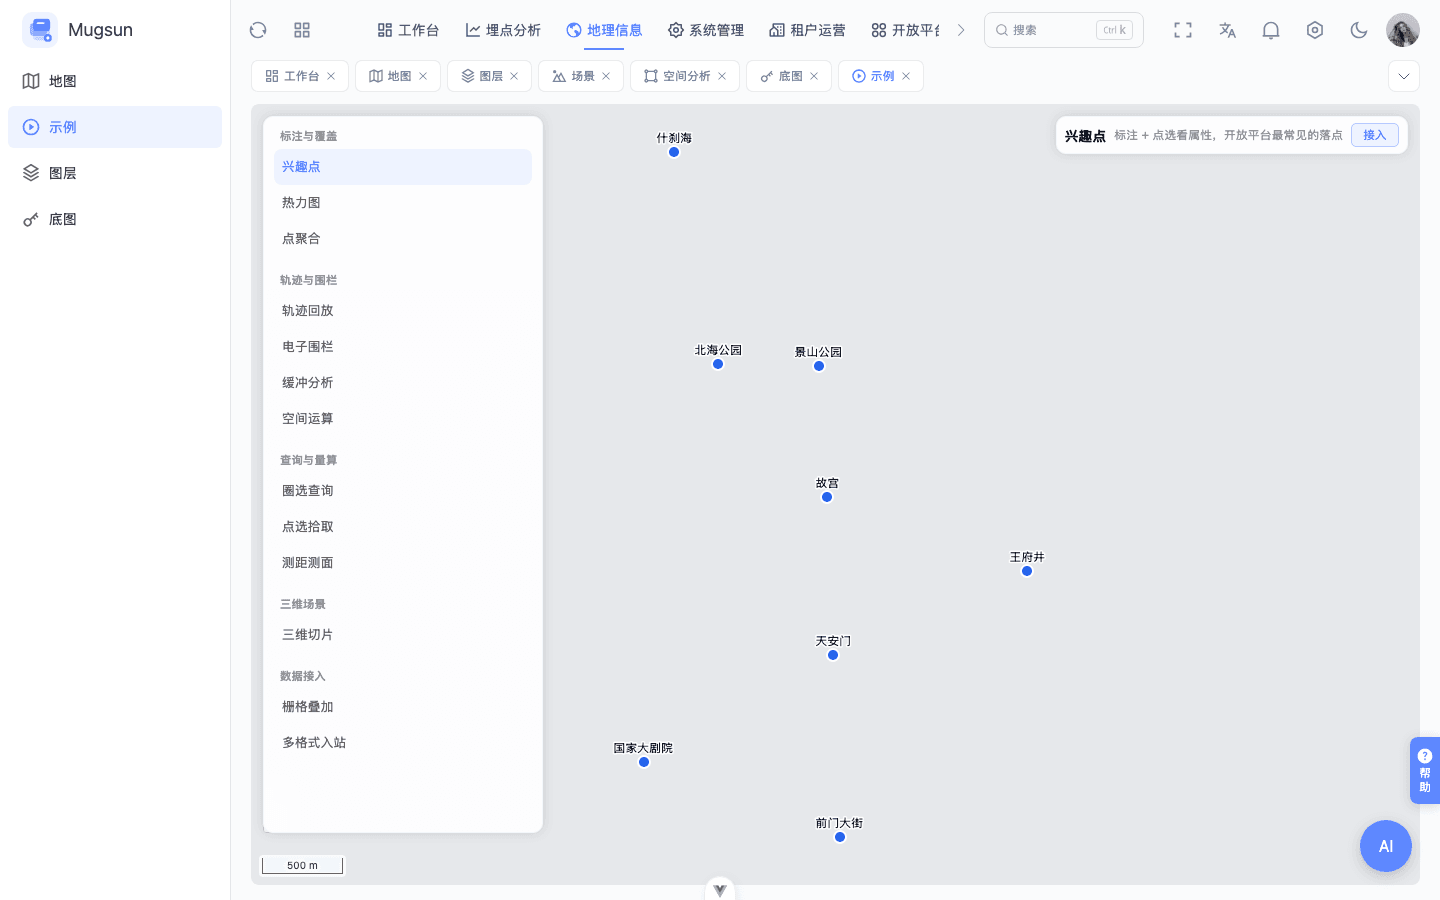
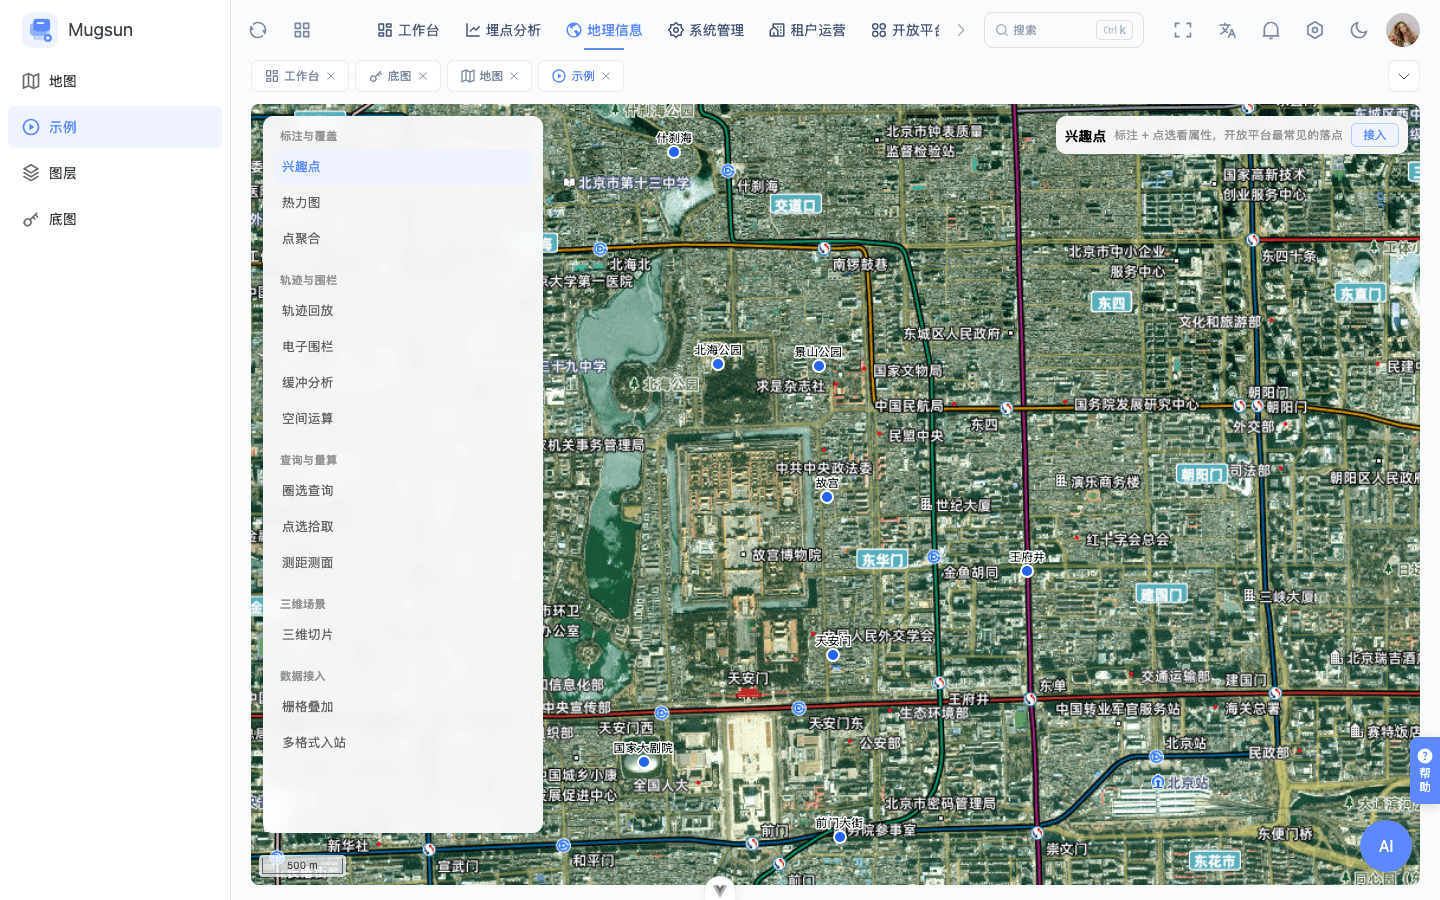
docs(pc): GIS 截图改用天地图底图，补工作台埋点热力，移除灰底/空状态图

diff --git a/en/pc/gis.md b/en/pc/gis.md
@@ -1,22 +1,30 @@
 # GIS & maps
 
-With `VITE_ENABLE_GIS` on, the admin registers the **GIS** menu (frontend `modules/gis`, backend `mugsun-boot-gis`). All screenshots below come from a local run of mugsun-boot + mugsun-pc (1440×900) with **no basemap key configured**, so map areas show a grey canvas plus vector features only. Add a key for Tianditu / AMap / Baidu / Google to get basemap tiles. The UI is shown in Chinese.
+With `VITE_ENABLE_GIS` on, the admin registers the **GIS** menu (frontend `modules/gis`, backend `mugsun-boot-gis`). All screenshots below come from a local run of mugsun-boot + mugsun-pc (1440×900). The UI is shown in Chinese.
+
+::: info Basemap source & copyright
+The basemap in these screenshots is **Tianditu** (China's National Platform for Common Geospatial Information Services) imagery + label tiles, proxied same-origin by boot; copyright belongs to Tianditu. The admin map currently shows no attribution / map-review-number control — when publishing, label the source and review number as required by Tianditu's terms. You need to apply for your own Tianditu key.
+:::
 
 ::: tip Demo data
-The two analytics geo screenshots use demo events seeded into the local dev database (~150 events across Beijing, Shanghai, Guangzhou and other cities), for illustration only.
+The analytics heatmap and region screenshots use demo events seeded into the local dev database (~150 geo-tagged events across Beijing, Shanghai, Guangzhou and other cities), for illustration only.
 :::
 
 ## Basemap providers `/gis/provider`
 
-Keys are stored server-side only; tiles are proxied through an authenticated same-origin API and keys are never echoed back to the page.
+Keys are stored server-side only (SM4-encrypted); tiles are proxied through an authenticated same-origin API. A configured key is never echoed back — the input only says "leave empty to keep".
 
-![Basemap providers](/screenshots/gis/gis-provider.png)
+![Basemap providers (Tianditu configured)](/screenshots/gis/gis-provider.png)
 
 ## Map workspace `/gis/workspace`
 
-Available by default. Without a usable basemap it shows an empty state with a shortcut to the provider settings. Set `gis.module.enabled` to hide the whole module.
+Draw points/lines/polygons, search places / POIs, switch 2D/3D and basemap styles (vector / imagery / labels). Set `gis.module.enabled` to hide the whole module.
 
-![Map workspace (no basemap)](/screenshots/gis/gis-workspace.png)
+![Map workspace](/screenshots/gis/gis-workspace.png)
+
+**More → Analytics heatmap** overlays precise analytics coordinates as a heatmap layer; adjust opacity, zoom to, or remove it in the **Layers** panel.
+
+![Workspace with analytics heatmap](/screenshots/gis/gis-workspace-track-heat.png)
 
 ## Examples `/gis/lab`
 
@@ -26,27 +34,15 @@ Runnable examples grouped by scenario: markers & overlays, tracks & fences, quer
 
 ![Example: heatmap](/screenshots/gis/gis-lab-heatmap.png)
 
-## Layers `/gis/layer`
-
-Import a layer to preview it on the map; once added to the workspace you can adjust opacity and save it into a scene.
-
-![Layers](/screenshots/gis/gis-layer.png)
-
-## Scenes `/gis/scene`
-
-Save your workspace as a scene, preview it, and reopen it to keep editing.
-
-![Scenes](/screenshots/gis/gis-scene.png)
-
 ## Spatial analysis `/gis/analyze`
 
-Runs server-side with JTS: input is normalized to WGS84 GeoJSON and computed in meters on Web Mercator (buffer, etc.). Results can be saved as a layer or overlaid.
+Runs server-side with JTS: input is normalized to WGS84 GeoJSON and computed in meters on Web Mercator. Results can be saved as a layer or overlaid. Below: a 500 m buffer around a point near Tiananmen.
 
-![Spatial analysis](/screenshots/gis/gis-analyze.png)
+![Spatial analysis: buffer](/screenshots/gis/gis-analyze.png)
 
 ## Analytics geo
 
-The analytics overview `/track/overview` shows region distribution (from IP geolocation) and a visit heatmap (from precise coordinates).
+The analytics overview `/track/overview` shows region distribution (from IP geolocation) and a visit heatmap (from precise coordinates). They come from different data sources.
 
 ![Region distribution and visit heatmap](/screenshots/gis/track-geo-region.png)
 

diff --git a/pc/gis.md b/pc/gis.md
@@ -1,22 +1,30 @@
 # GIS 与地图
 
-`VITE_ENABLE_GIS` 开启时，管理台注册「地理信息」菜单（前端 `modules/gis`，后端 `mugsun-boot-gis`）。以下截图均来自本地实跑的 mugsun-boot + mugsun-pc（1440×900），**未配置任何底图密钥**，因此地图区域只显示灰色画布与矢量要素；配置天地图 / 高德 / 百度 / Google 任一家密钥后即可叠加底图瓦片。
+`VITE_ENABLE_GIS` 开启时，管理台注册「地理信息」菜单（前端 `modules/gis`，后端 `mugsun-boot-gis`）。以下截图均来自本地实跑的 mugsun-boot + mugsun-pc（1440×900）。
+
+::: info 底图来源与版权
+截图中的底图为**天地图**（国家地理信息公共服务平台）影像 + 注记瓦片，经 boot 同源代理加载，版权归天地图所有。当前管理台地图未显示版权/审图号控件，正式对外使用时请按天地图服务条款在页面标注来源与审图号。底图密钥需自行在天地图控制台申请。
+:::
 
 ::: tip 关于演示数据
-「埋点地理」两张图使用写入本地开发库的演示事件（约 150 条，分布于北京、上海、广州等城市），仅用于展示效果。
+「埋点热力」「地域分布」使用写入本地开发库的演示事件（约 150 条带坐标事件，分布于北京、上海、广州等城市），仅用于展示效果。
 :::
 
 ## 底图配置 `/gis/provider`
 
-密钥只保存在服务端，瓦片经登录态接口同源拉取，页面不回显密钥。
+密钥只保存在服务端（SM4 加密），瓦片经登录态接口同源拉取；已配置的密钥不会回显，输入框只提示「留空则不修改」。
 
-![底图配置](/screenshots/gis/gis-provider.png)
+![底图配置（天地图已配置）](/screenshots/gis/gis-provider.png)
 
 ## 地图工作台 `/gis/workspace`
 
-工作台默认可用；尚无可用底图时给出空状态与「去配置底图」入口。可通过参数 `gis.module.enabled` 隐藏整个模块。
+绘制点线面、地名 / POI 检索、二三维切换、底图与样式切换（矢量 / 影像 / 注记）。可通过参数 `gis.module.enabled` 隐藏整个模块。
 
-![地图工作台（未配置底图）](/screenshots/gis/gis-workspace.png)
+![地图工作台](/screenshots/gis/gis-workspace.png)
+
+工作台「更多 → 埋点热力」可把埋点精确坐标叠加为热力图层，在「图层」面板调整透明度、定位或移除。
+
+![工作台叠加埋点热力](/screenshots/gis/gis-workspace-track-heat.png)
 
 ## 示例 `/gis/lab`
 
@@ -26,27 +34,15 @@
 
 ![示例：热力图](/screenshots/gis/gis-lab-heatmap.png)
 
-## 图层 `/gis/layer`
-
-入库图层后可在地图上预览，叠加到工作台后可调透明度、保存进场景。
-
-![图层](/screenshots/gis/gis-layer.png)
-
-## 场景 `/gis/scene`
-
-在工作台标完后保存为场景，点场景预览、打开继续编辑。
-
-![场景](/screenshots/gis/gis-scene.png)
-
 ## 空间分析 `/gis/analyze`
 
-运算走服务端 JTS：输入先规范化成 WGS84 GeoJSON，在 Web Mercator 上按米计算（缓冲等），结果可存为图层或叠加。
+运算走服务端 JTS：输入先规范化成 WGS84 GeoJSON，在 Web Mercator 上按米计算，结果可存为图层或叠加。下图为对天安门附近一点做 500 米缓冲。
 
-![空间分析](/screenshots/gis/gis-analyze.png)
+![空间分析：缓冲](/screenshots/gis/gis-analyze.png)
 
 ## 埋点地理
 
-埋点「数据概览」`/track/overview` 提供地域分布（基于 IP 属地）与访问热力（基于精确坐标）。
+埋点「数据概览」`/track/overview` 提供地域分布（基于 IP 属地）与访问热力（基于精确坐标）。两者数据来源不同，不要混为一谈。
 
 ![地域分布与访问热力](/screenshots/gis/track-geo-region.png)
 
